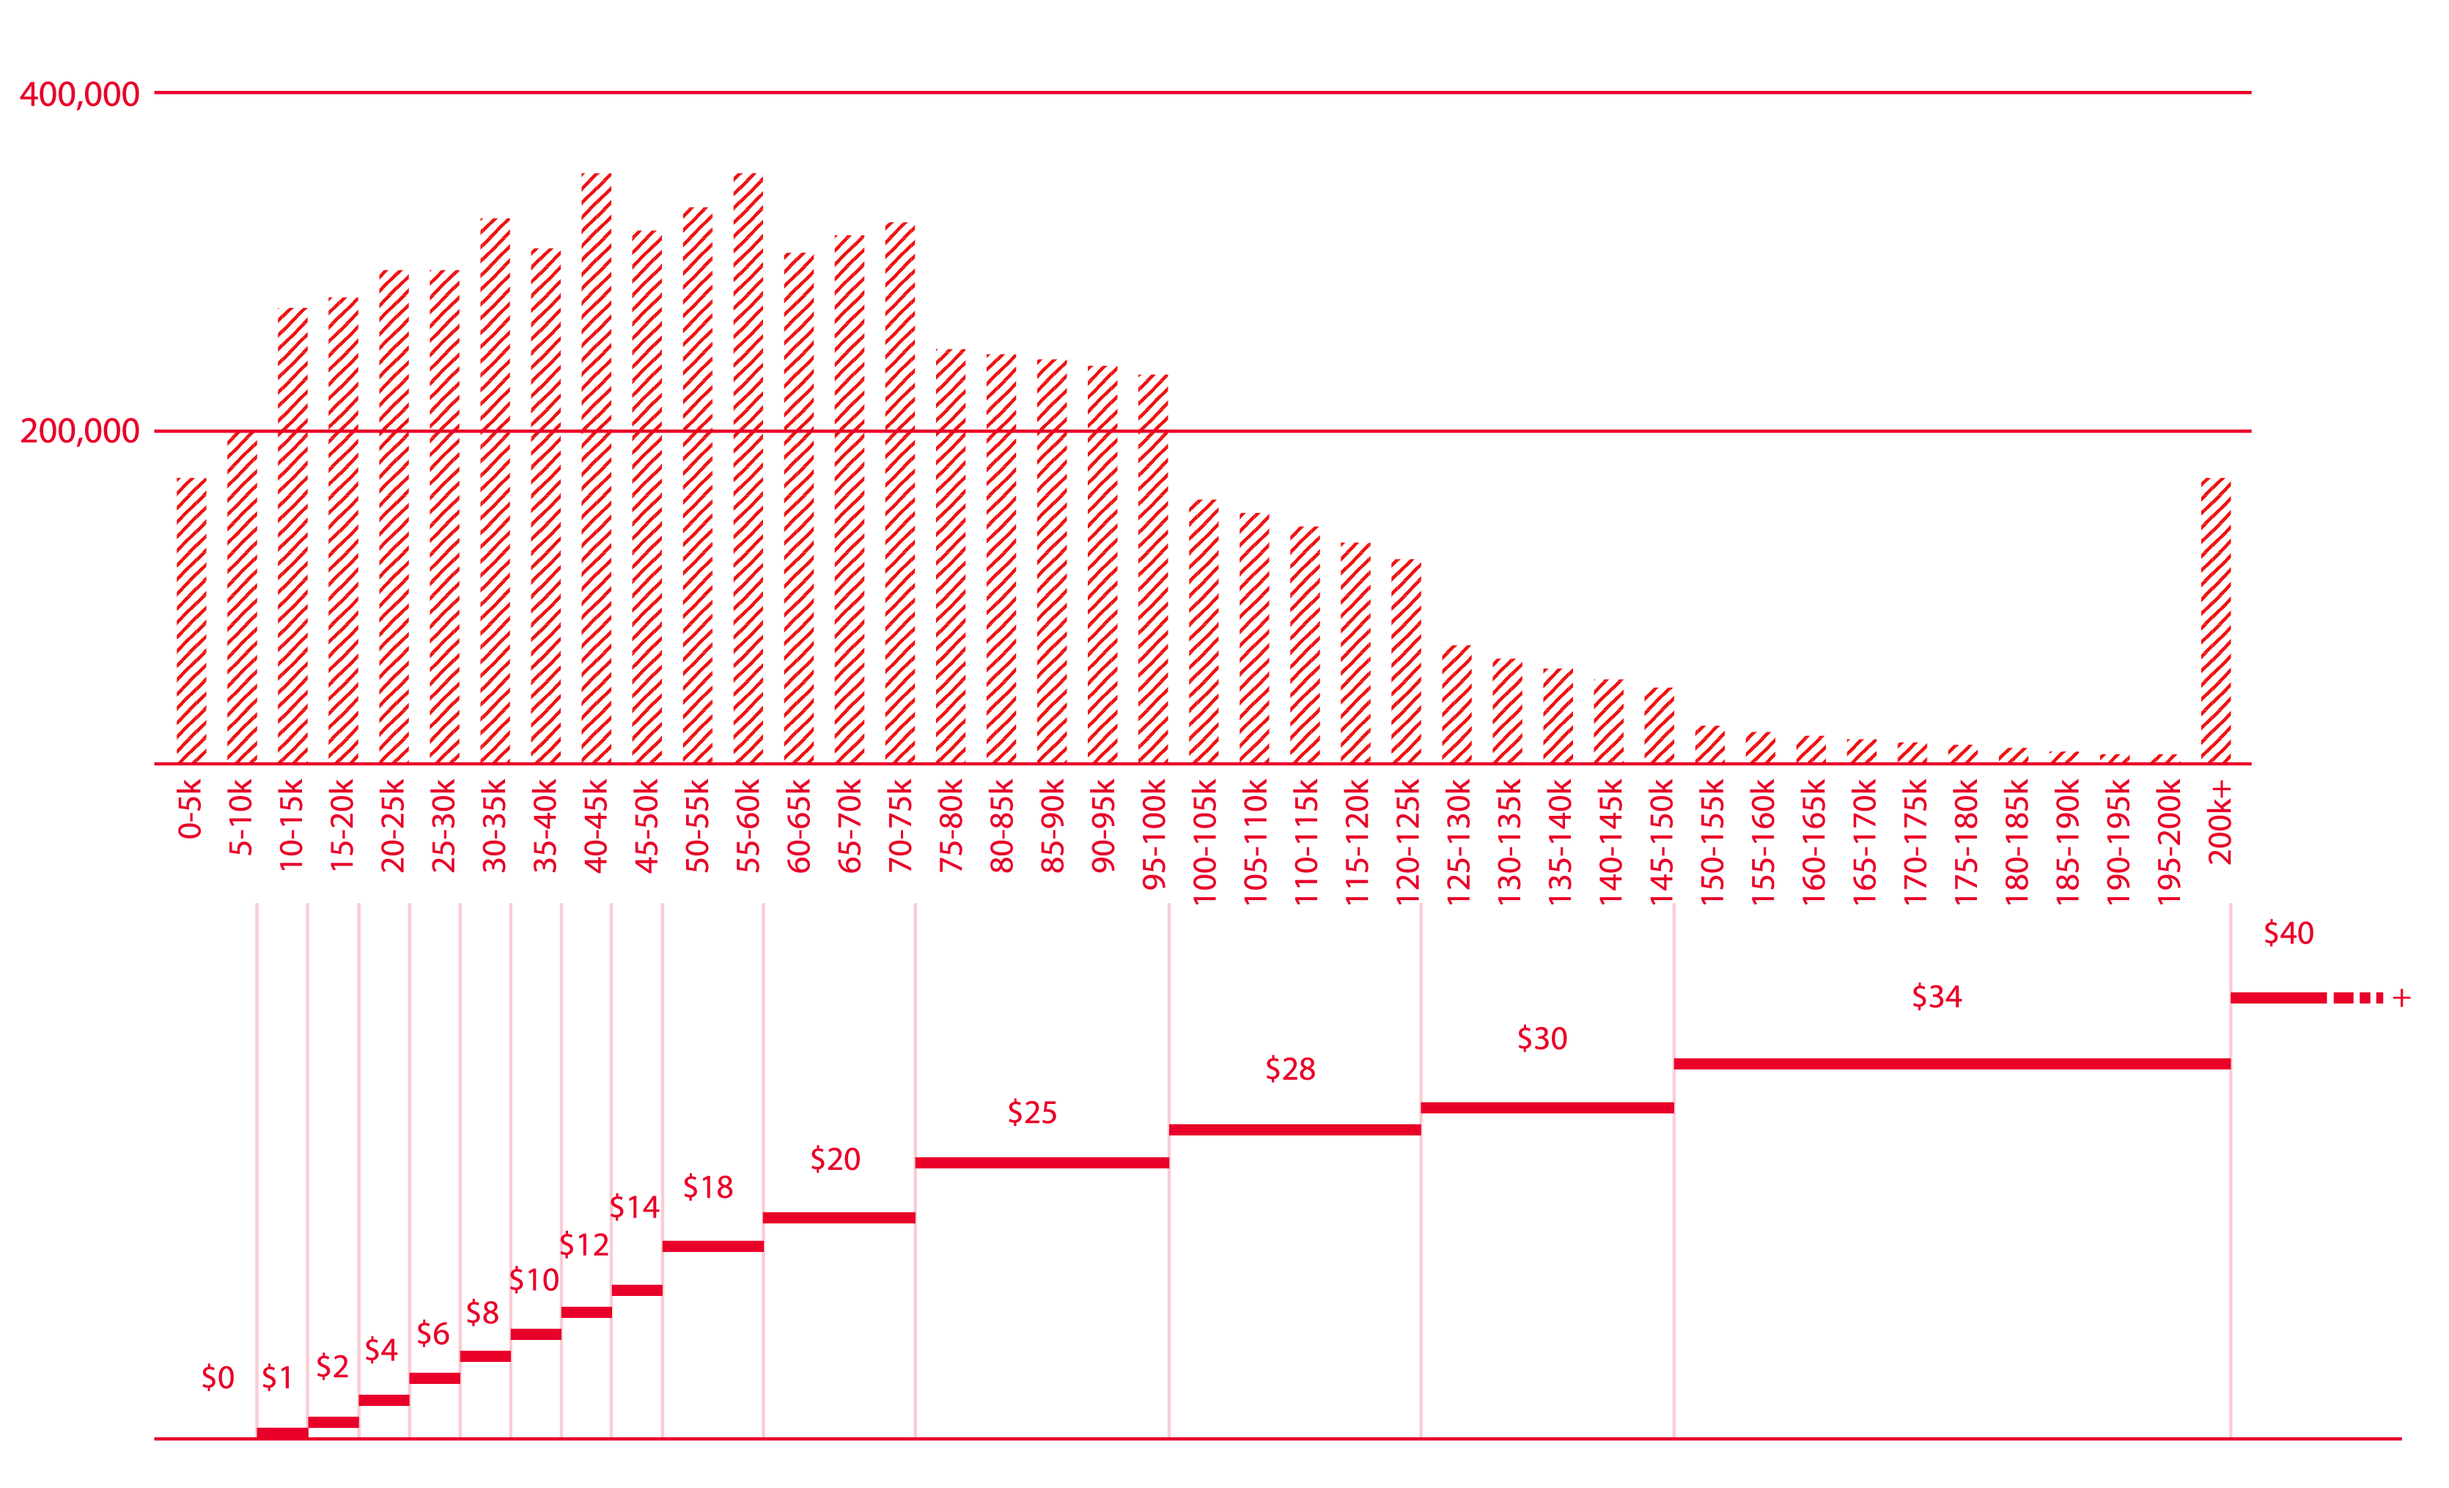
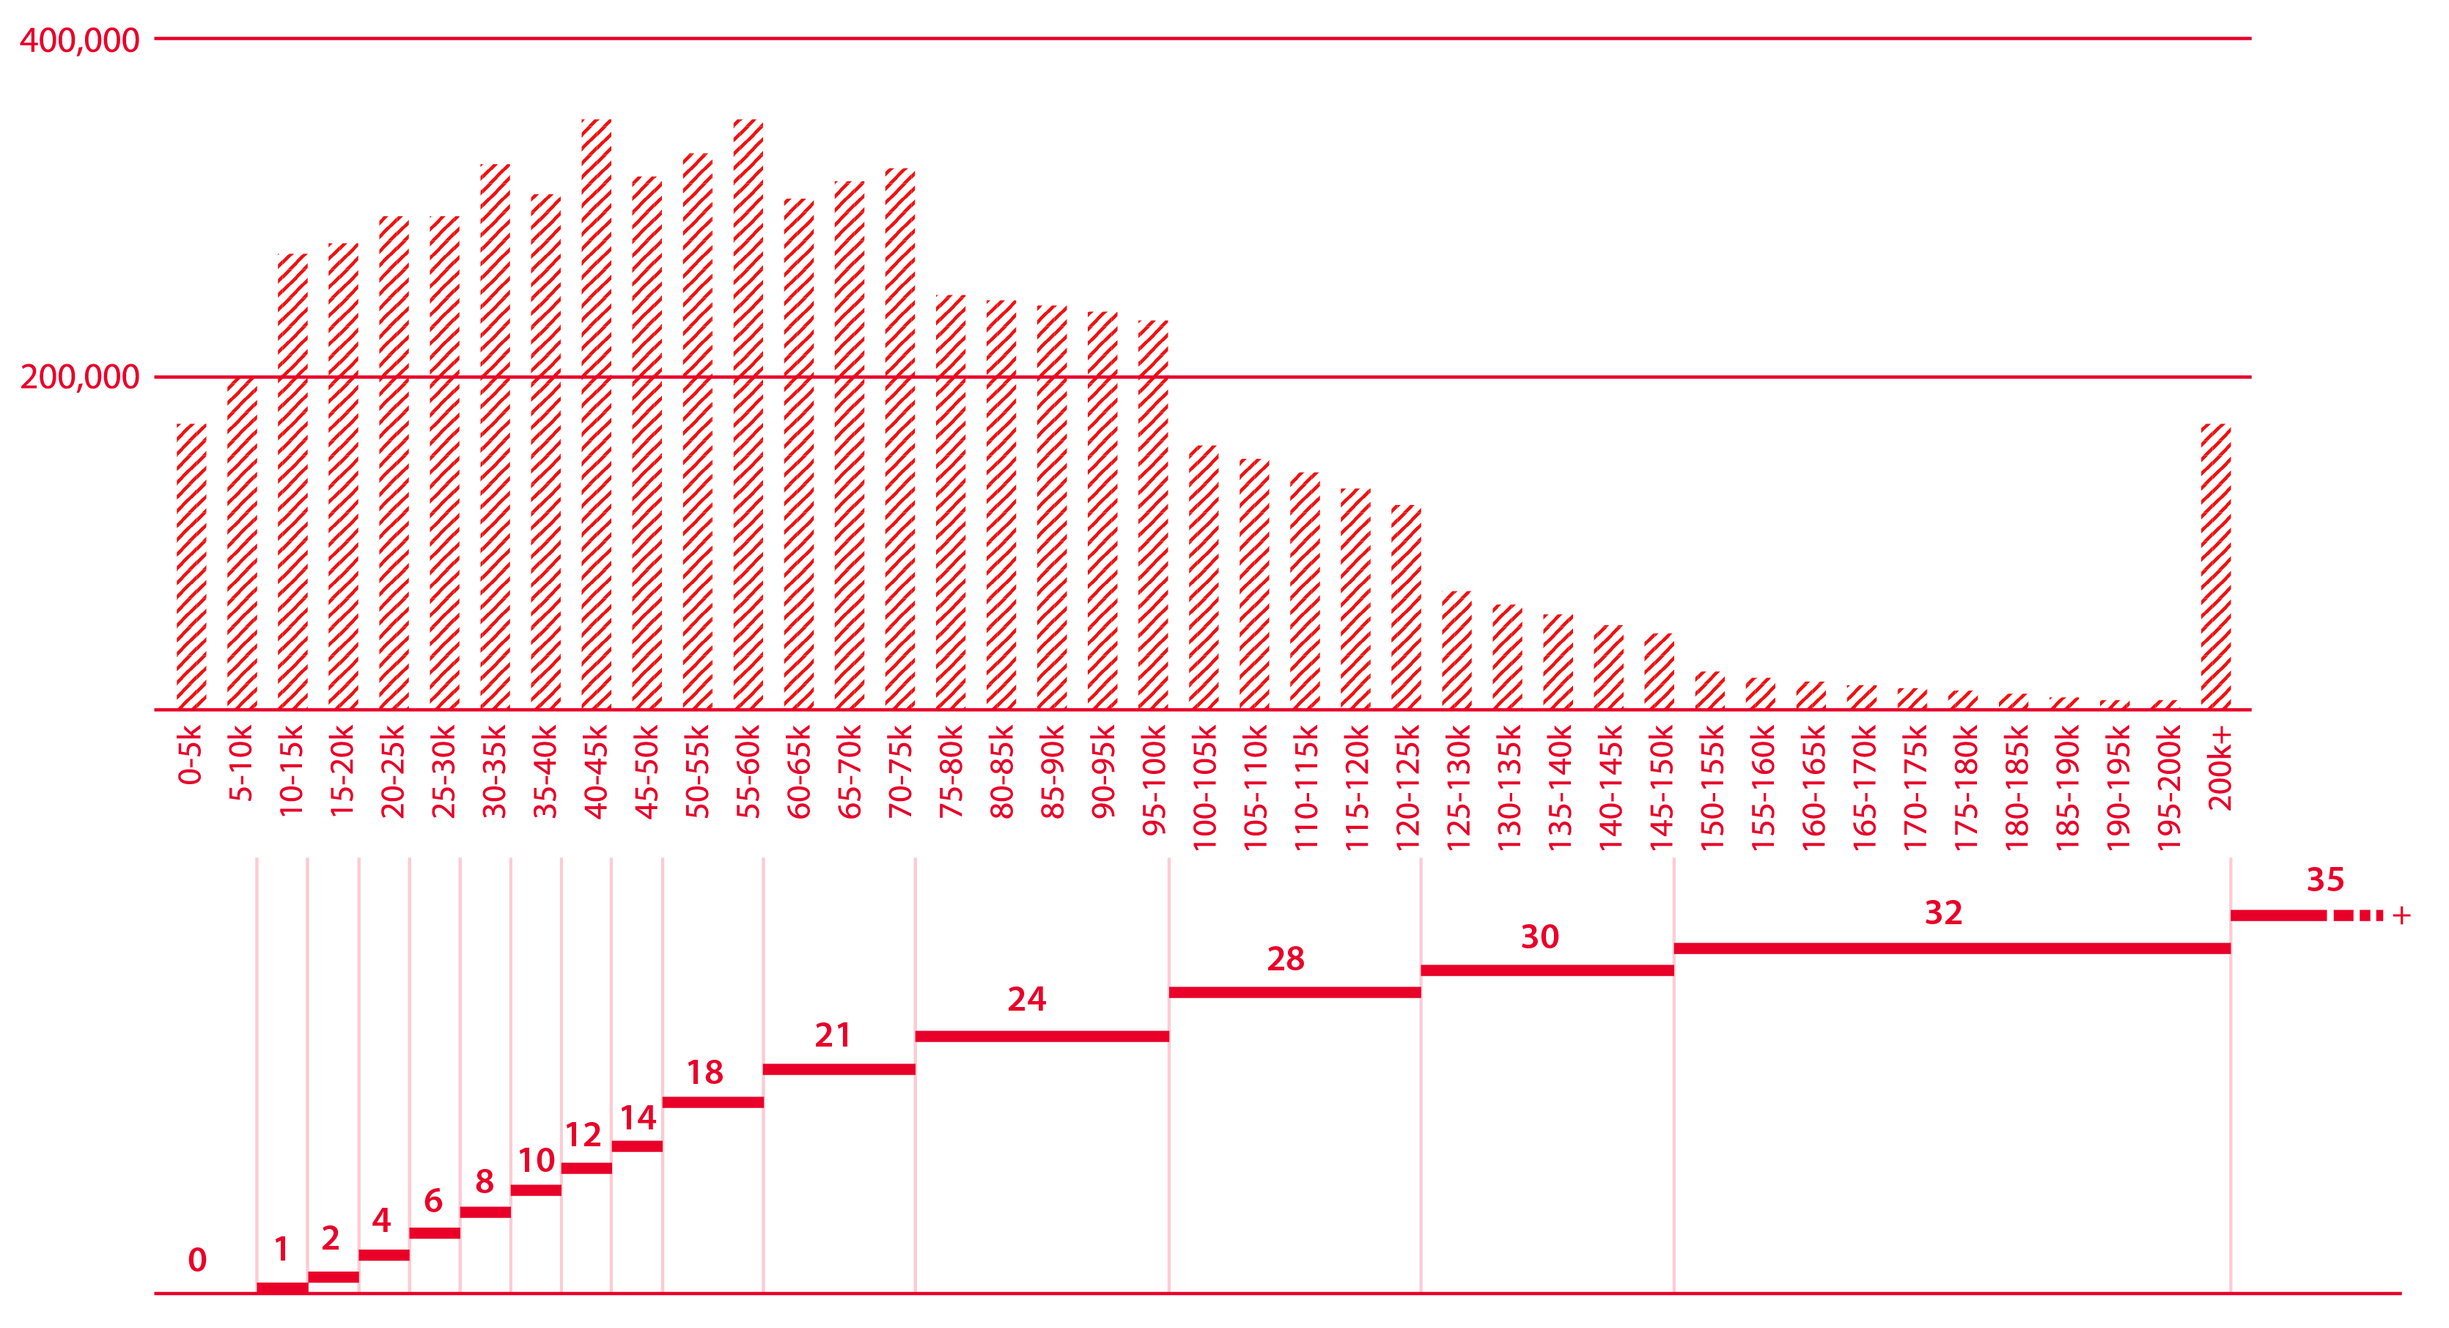
update

diff --git a/met/templates/index.html b/met/templates/index.html
@@ -19,22 +19,22 @@
     <meta name="viewport" content="width=device-width,initial-scale=1">
     <link rel="shortcut icon" href="{{ url_for('static', filename='images/favicon.png') }}">
     <link rel="canonical" href="http://www.equitablemet.com">
-    <meta name="keywords" content="" >
-    <meta name="description" content="">
+    <meta name="keywords" content="Met, The Met, Ticketing, Admissions, Museum, Museums, Art, Art Museums, Gradient, Sliding scale, Look At Art Get Paid, A Blade of Grass, Equity, Accessibility, Community" >
+    <meta name="description" content="A proposal asking The Met to consider sliding scale ticket pricing based on income instead of their newly implemented fixed $25 fee that will slash access for low-income out-of-state visitors and undercut the Met’s mission to “reach out to the widest possible audience in a spirit of inclusiveness.”">
 
     <!--FACEBOOK-->
-    <meta property="og:title" content="" >
-    <meta property="og:site_name" content="">
+    <meta property="og:title" content="Towards Equitable Met Ticketing" >
+    <meta property="og:site_name" content="Towards Equitable Met Ticketing">
     <meta property="og:url" content="http://www.equitablemet.com" >
-    <meta property="og:description" content="" >
+    <meta property="og:description" content="A proposal asking The Met to consider sliding scale ticket pricing based on income instead of their newly implemented fixed $25 fee that will slash access for low-income out-of-state visitors and undercut the Met’s mission to “reach out to the widest possible audience in a spirit of inclusiveness.”" >
     <meta property="og:image" content="{{ url_for('static', filename='images/share-image.png') }}">
     <meta property="og:type" content="website" >
     <meta property="og:locale" content="en_US" >
 
     <!--TWITTER-->
     <meta property="twitter:card" content="summary_large_image" >
-    <meta property="twitter:title" content="" >
-    <meta property="twitter:description" content="" >
+    <meta property="twitter:title" content="Towards Equitable Met Ticketing" >
+    <meta property="twitter:description" content="Towards Equitable Met Ticketing is a proposal asking The Met to consider sliding scale ticket pricing based on income instead of their newly implemented fixed $25 fee that will slash access for low-income out-of-state visitors and undercut the Met’s mission to “reach out to the widest possible audience in a spirit of inclusiveness.”" >
     <meta property="twitter:url" content="http://www.equitablemet.com" >
     <meta property="twitter:image" content="{{ url_for('static', filename='images/share-image.png') }}">
 
@@ -53,7 +53,7 @@
         <!--<div id="header-filler"></div>-->
         <div id="nav">
              <div class="nav-el">
-                <a href="" target="_blank">Read More</a>
+                <a href="https://medium.com/gradient-sliding-scale/towards-an-equitable-met-faq-93f7f17fd25b" target="_blank">Read More</a>
             </div>       
             <div class="nav-el">
                 <a href="mailto:info@gradient.care" target="_blank">Contact Us</a>
@@ -112,7 +112,7 @@
                     <div class="scale-cell"><div class="scale-cell-price">$28</div><div class="scale-cell-income">$100-125k</div></div>
                     <div class="scale-cell"><div class="scale-cell-price">$30</div><div class="scale-cell-income">$125-150k</div></div>
                     <div class="scale-cell"><div class="scale-cell-price">$32</div><div class="scale-cell-income">$150-200k</div></div>
-                    <div class="scale-cell"><div class="scale-cell-price">$35</div><div class="scale-cell-income">+$200k   </div></div>
+                    <div class="scale-cell"><div class="scale-cell-price">$35</div><div class="scale-cell-income">$200k +  </div></div>
                 </div>
                 <br>
                 <div id="scale-annotation">
@@ -121,7 +121,7 @@
             </div>
             <div id="scale-right">
                 <div style="font-weight: bold">
-                    We propose a sliding scale of recommended payment tiers from $0-$40, applied to all visitors, in-state and out
+                    We propose a sliding scale of recommended payment tiers from $0-$35, applied to all visitors, in-state and out
                 </div>
                 <hr>
                 <div style="font-weight: normal">
@@ -286,7 +286,7 @@
                 </div>
                 <br><br>
                 <div id="credits-social">
-                    <div><a href="" target="_blank">Read the Paper</a></div>
+                    <div><a href="https://medium.com/gradient-sliding-scale/towards-an-equitable-met-faq-93f7f17fd25b" target="_blank">Read More</a></div>
                     <br>
                     <div><a href="mailto:info@gradient.care" target="_blank">Contact Us</a></div>
                 </div>

diff --git a/met/static/js/subscribe.js b/met/static/js/subscribe.js
@@ -24,21 +24,21 @@ function subscribe_newsletter(
                     },  
                     body: subscribe_form.serialize() 
                 })
-                // .then(resp => resp.json())
-                // .then(function(res) {
-                //     if (res.success == true) {
-                //         subscribe_form_feedback
-                //             .css('color', '#00FF00') // green
-                //             .html("Thank you for subscribing!");
-// 
-                //         // disable form submit on success
-                //         subscribe_form_submit.prop('disabled', true);
-                //     } else {
-                //         subscribe_form_feedback
-                //             .css('color', '#FFFF00') // yellow
-                //             .html(res.errors);
-                //     }
-                // })
+                .then(resp => resp.json())
+                .then(function(res) {
+                    if (res.success == true) {
+                        subscribe_form_feedback
+                            .css('color', '#FFFFFF') // green
+                            .html("Thank you for subscribing!");
+                            
+                        // disable form submit on success
+                        subscribe_form_submit.prop('disabled', true);
+                    } else {
+                        subscribe_form_feedback
+                            .css('color', '#FFFF00') // yellow
+                            .html(res.errors);
+                    }
+                })
                 .catch(function(err) {
                     console.log(err);
                 });

diff --git a/met/static/gen/main.js b/met/static/gen/main.js
@@ -50,21 +50,21 @@ function subscribe_newsletter(
                     },  
                     body: subscribe_form.serialize() 
                 })
-                // .then(resp => resp.json())
-                // .then(function(res) {
-                //     if (res.success == true) {
-                //         subscribe_form_feedback
-                //             .css('color', '#00FF00') // green
-                //             .html("Thank you for subscribing!");
+                .then(resp => resp.json())
+                .then(function(res) {
+                    if (res.success == true) {
+                        subscribe_form_feedback
+                            .css('color', '#FFFFFF') // green
+                            .html("Thank you for subscribing!");
 // 
-                //         // disable form submit on success
-                //         subscribe_form_submit.prop('disabled', true);
-                //     } else {
-                //         subscribe_form_feedback
-                //             .css('color', '#FFFF00') // yellow
-                //             .html(res.errors);
-                //     }
-                // })
+                        // disable form submit on success
+                        subscribe_form_submit.prop('disabled', true);
+                    } else {
+                        subscribe_form_feedback
+                            .css('color', '#FFFF00') // yellow
+                            .html(res.errors);
+                    }
+                })
                 .catch(function(err) {
                     console.log(err);
                 });

diff --git a/met/__init__.py b/met/__init__.py
@@ -25,10 +25,10 @@ def create_app(
     app.config.update(config_overrides)
     
     # set auth
-    app.config['BASIC_AUTH_FORCE'] = True
-    app.config['BASIC_AUTH_USERNAME'] = secrets.BASIC_AUTH_USERNAME
-    app.config['BASIC_AUTH_PASSWORD'] = secrets.BASIC_AUTH_PASSWORD
-    basic_auth = BasicAuth(app)
+    # app.config['BASIC_AUTH_FORCE'] = True
+    # app.config['BASIC_AUTH_USERNAME'] = secrets.BASIC_AUTH_USERNAME
+    # app.config['BASIC_AUTH_PASSWORD'] = secrets.BASIC_AUTH_PASSWORD
+    # basic_auth = BasicAuth(app)
     
     # set mailchimp settings 
     mc_user = secrets.MAILCHIMP_USERNAME
